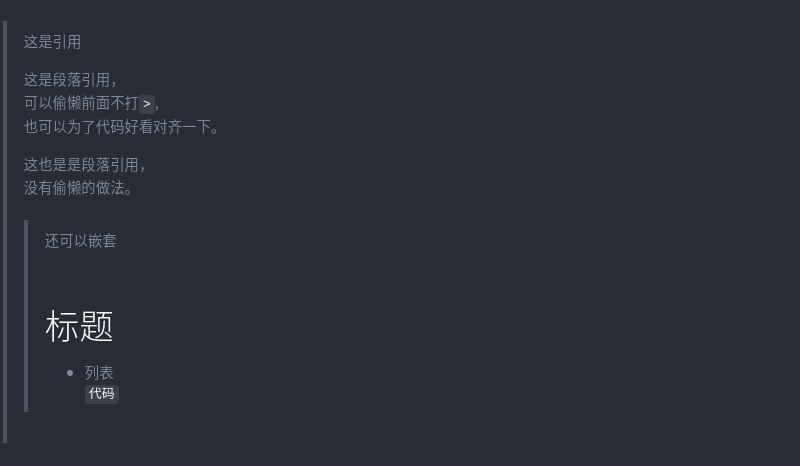
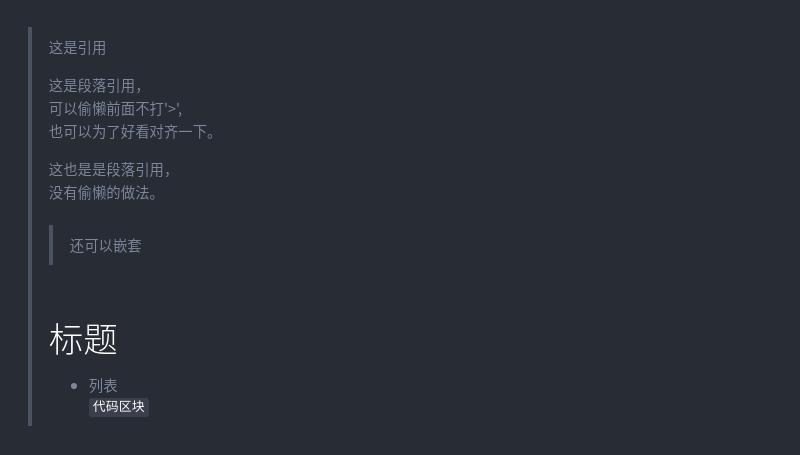
Site updated: 2019-03-01 11:41:00

Changed region(s): [[0.0, 0.0615, 0.2812, 0.9538]]

diff --git a/Markdown语法笔记/index.html b/Markdown语法笔记/index.html
@@ -107,14 +107,17 @@
 <meta property="og:image" content="https://yandiwei.github.io/uploads/headers_setext.png">
 <meta property="og:image" content="https://yandiwei.github.io/uploads/headers_atx.png">
 <meta property="og:image" content="https://yandiwei.github.io/uploads/emphasis.png">
+<meta property="og:image" content="https://yandiwei.github.io/uploads/lines.png">
 <meta property="og:image" content="https://yandiwei.github.io/uploads/lists_unordered.png">
 <meta property="og:image" content="https://yandiwei.github.io/uploads/lists_ordered.png">
+<meta property="og:image" content="https://yandiwei.github.io/uploads/autolinks.png">
 <meta property="og:image" content="https://github.githubassets.com/favicon.ico">
-<meta property="og:image" content="https://yandiwei.github.io/uploads/links.png">
+<meta property="og:image" content="https://yandiwei.github.io/uploads/hyperlink.png">
 <meta property="og:image" content="https://yandiwei.github.io/uploads/code.png">
 <meta property="og:image" content="https://yandiwei.github.io/uploads/blockquotes.png">
-<meta property="og:image" content="https://yandiwei.github.io/uploads/lines.png">
-<meta property="og:updated_time" content="2019-03-01T01:56:48.296Z">
+<meta property="og:image" content="https://yandiwei.github.io/uploads/back_slash.png">
+<meta property="og:image" content="https://yandiwei.github.io/uploads/syntax_highlighting.png">
+<meta property="og:updated_time" content="2019-03-01T03:40:12.475Z">
 <meta name="twitter:card" content="summary">
 <meta name="twitter:title" content="Markdown语法笔记">
 <meta name="twitter:description" content="Markdown简介Markdown目标实现「易读易写」 Markdown与HTML的关系 Markdown 是一种书写的格式，HTML 是一种发布的格式。 Markdown只对应HTML标记的一小部分，HTML不在 Markdown 涵盖范围之内的标签，都可以直接在文档里面用 HTML 撰写。 HTML 文件中， &amp;lt;  和  &amp;amp;  需要特殊处理成&amp;amp;lt和&amp;amp;amp，M">
@@ -411,7 +414,7 @@
                 
                   <span class="post-meta-item-text">更新于</span>
                 
-                <time title="修改时间：2019-03-01 09:56:48" itemprop="dateModified" datetime="2019-03-01T09:56:48+08:00">2019-03-01</time>
+                <time title="修改时间：2019-03-01 11:40:12" itemprop="dateModified" datetime="2019-03-01T11:40:12+08:00">2019-03-01</time>
               
             
           </span>
@@ -469,35 +472,52 @@
 <li>Markdown只对应HTML标记的一小部分，HTML不在 Markdown 涵盖范围之内的标签，都可以直接在文档里面用 HTML 撰写。</li>
 <li>HTML 文件中，<strong> &lt; </strong> 和 <strong> &amp; </strong> 需要特殊处理成<code>&amp;lt</code>和<code>&amp;amp</code>，Markdown自动转换。</li>
 </ul>
-<h1 id="基本Markdown语法"><a href="#基本Markdown语法" class="headerlink" title="基本Markdown语法"></a>基本Markdown语法</h1><h2 id="标题"><a href="#标题" class="headerlink" title="标题"></a>标题</h2><h3 id="类Setext形式"><a href="#类Setext形式" class="headerlink" title="类Setext形式"></a>类Setext形式</h3><figure class="highlight markdown"><table><tr><td class="gutter"><pre><span class="line">1</span><br><span class="line">2</span><br><span class="line">3</span><br><span class="line">4</span><br></pre></td><td class="code"><pre><span class="line">标题1</span><br><span class="line">==</span><br><span class="line">标题2</span><br><span class="line">--</span><br></pre></td></tr></table></figure>
+<h1 id="基本Markdown语法"><a href="#基本Markdown语法" class="headerlink" title="基本Markdown语法"></a>基本Markdown语法</h1><h2 id="标题"><a href="#标题" class="headerlink" title="标题"></a>标题</h2><h3 id="Setext形式"><a href="#Setext形式" class="headerlink" title="Setext形式"></a>Setext形式</h3><figure class="highlight markdown"><table><tr><td class="gutter"><pre><span class="line">1</span><br><span class="line">2</span><br><span class="line">3</span><br><span class="line">4</span><br></pre></td><td class="code"><pre><span class="line">标题1</span><br><span class="line">==</span><br><span class="line">标题2</span><br><span class="line">--</span><br></pre></td></tr></table></figure>
 <p><img src="/uploads/headers_setext.png" alt="类Setext形式"></p>
-<h3 id="类atx形式"><a href="#类atx形式" class="headerlink" title="类atx形式"></a>类atx形式</h3><figure class="highlight markdown"><table><tr><td class="gutter"><pre><span class="line">1</span><br><span class="line">2</span><br><span class="line">3</span><br><span class="line">4</span><br><span class="line">5</span><br><span class="line">6</span><br></pre></td><td class="code"><pre><span class="line"><span class="section"># 标题1</span></span><br><span class="line"><span class="section">## 标题2</span></span><br><span class="line"><span class="section">### 标题3</span></span><br><span class="line"><span class="section">#### 标题4</span></span><br><span class="line"><span class="section">##### 标题5</span></span><br><span class="line"><span class="section">###### 标题6</span></span><br></pre></td></tr></table></figure>
+<h3 id="atx形式"><a href="#atx形式" class="headerlink" title="atx形式"></a>atx形式</h3><figure class="highlight markdown"><table><tr><td class="gutter"><pre><span class="line">1</span><br><span class="line">2</span><br><span class="line">3</span><br><span class="line">4</span><br><span class="line">5</span><br><span class="line">6</span><br></pre></td><td class="code"><pre><span class="line"><span class="section"># 标题1</span></span><br><span class="line"><span class="section">## 标题2</span></span><br><span class="line"><span class="section">### 标题3</span></span><br><span class="line"><span class="section">#### 标题4</span></span><br><span class="line"><span class="section">##### 标题5</span></span><br><span class="line"><span class="section">###### 标题6</span></span><br></pre></td></tr></table></figure>
 <p><img src="/uploads/headers_atx.png" alt="类atx形式"></p>
-<h2 id="强调"><a href="#强调" class="headerlink" title="强调"></a>强调</h2><figure class="highlight markdown"><table><tr><td class="gutter"><pre><span class="line">1</span><br><span class="line">2</span><br><span class="line">3</span><br><span class="line">4</span><br></pre></td><td class="code"><pre><span class="line"><span class="bullet">* </span>斜体 *</span><br><span class="line"><span class="emphasis">_ 斜体 _</span></span><br><span class="line"><span class="strong">** 加粗 **</span></span><br><span class="line"><span class="strong">__ 加粗 __</span></span><br></pre></td></tr></table></figure>
+<h2 id="强调"><a href="#强调" class="headerlink" title="强调"></a>强调</h2><figure class="highlight markdown"><table><tr><td class="gutter"><pre><span class="line">1</span><br><span class="line">2</span><br><span class="line">3</span><br><span class="line">4</span><br></pre></td><td class="code"><pre><span class="line"><span class="emphasis">*斜体*</span></span><br><span class="line"><span class="emphasis">_斜体_</span></span><br><span class="line"><span class="strong">**加粗**</span></span><br><span class="line"><span class="strong">__加粗__</span></span><br></pre></td></tr></table></figure>
 <p><img src="/uploads/emphasis.png" alt="强调"></p>
+<h2 id="分隔线"><a href="#分隔线" class="headerlink" title="分隔线"></a>分隔线</h2><figure class="highlight markdown"><table><tr><td class="gutter"><pre><span class="line">1</span><br></pre></td><td class="code"><pre><span class="line">---</span><br></pre></td></tr></table></figure>
+<p><img src="/uploads/lines.png" alt="分隔线"></p>
 <h2 id="列表"><a href="#列表" class="headerlink" title="列表"></a>列表</h2><h3 id="无序列表"><a href="#无序列表" class="headerlink" title="无序列表"></a>无序列表</h3><figure class="highlight markdown"><table><tr><td class="gutter"><pre><span class="line">1</span><br><span class="line">2</span><br><span class="line">3</span><br><span class="line">4</span><br><span class="line">5</span><br><span class="line">6</span><br></pre></td><td class="code"><pre><span class="line"><span class="bullet">* </span>无序列表</span><br><span class="line"><span class="bullet">* </span>无序列表</span><br><span class="line">  * 无序列表</span><br><span class="line">  * 无序列表</span><br><span class="line"><span class="bullet">+ </span>无序列表</span><br><span class="line"><span class="bullet">- </span>无序列表</span><br></pre></td></tr></table></figure>
 <p><img src="/uploads/lists_unordered.png" alt="无序列表"></p>
 <h3 id="有序列表"><a href="#有序列表" class="headerlink" title="有序列表"></a>有序列表</h3><figure class="highlight markdown"><table><tr><td class="gutter"><pre><span class="line">1</span><br><span class="line">2</span><br><span class="line">3</span><br><span class="line">4</span><br></pre></td><td class="code"><pre><span class="line"><span class="bullet">1. </span>有序列表</span><br><span class="line"><span class="bullet">1. </span>有序列表</span><br><span class="line">  1. 有序列表</span><br><span class="line">  3. 有序列表（实际显示与前面的序号无关）</span><br></pre></td></tr></table></figure>
 <p><img src="/uploads/lists_ordered.png" alt="有序列表"></p>
-<h2 id="图片"><a href="#图片" class="headerlink" title="图片"></a>图片</h2><figure class="highlight markdown"><table><tr><td class="gutter"><pre><span class="line">1</span><br><span class="line">2</span><br><span class="line">3</span><br><span class="line">4</span><br></pre></td><td class="code"><pre><span class="line">格式：</span><br><span class="line">![<span class="string">图片替代文字</span>](<span class="link">图片地址</span>)</span><br><span class="line">例如：</span><br><span class="line">![<span class="string">github图标</span>](<span class="link">https://github.githubassets.com/favicon.ico</span>)</span><br></pre></td></tr></table></figure>
-<p><img src="https://github.githubassets.com/favicon.ico" alt="github图标"></p>
-<h2 id="链接"><a href="#链接" class="headerlink" title="链接"></a>链接</h2><figure class="highlight markdown"><table><tr><td class="gutter"><pre><span class="line">1</span><br><span class="line">2</span><br></pre></td><td class="code"><pre><span class="line">&lt;http://github.com&gt;</span><br><span class="line">&lt;yandiwei@hotmail.com&gt;</span><br></pre></td></tr></table></figure>
-<p><img src="/uploads/links.png" alt="链接"></p>
+<h2 id="链接"><a href="#链接" class="headerlink" title="链接"></a>链接</h2><h3 id="自动链接"><a href="#自动链接" class="headerlink" title="自动链接"></a>自动链接</h3><figure class="highlight markdown"><table><tr><td class="gutter"><pre><span class="line">1</span><br><span class="line">2</span><br></pre></td><td class="code"><pre><span class="line">&lt;http://github.com&gt;</span><br><span class="line">&lt;yandiwei@hotmail.com&gt;</span><br></pre></td></tr></table></figure>
+<p><img src="/uploads/autolinks.png" alt="自动链接"></p>
+<h3 id="文字超链接"><a href="#文字超链接" class="headerlink" title="文字超链接"></a>文字超链接</h3><figure class="highlight markdown"><table><tr><td class="gutter"><pre><span class="line">1</span><br><span class="line">2</span><br><span class="line">3</span><br><span class="line">4</span><br></pre></td><td class="code"><pre><span class="line">格式：</span><br><span class="line">[<span class="string">需要链接的文字</span>](<span class="link">链接地址 "链接描述"</span>)</span><br><span class="line">例如：</span><br><span class="line">[<span class="string">github</span>](<span class="link">http://github.com "github官网"</span>)</span><br></pre></td></tr></table></figure>
+<p><a href="http://github.com" title="github官网" target="_blank" rel="noopener">github</a></p>
+<h3 id="图片超链接"><a href="#图片超链接" class="headerlink" title="图片超链接"></a>图片超链接</h3><p>图片跟链接类似，前面加了一个‘!’<br><figure class="highlight markdown"><table><tr><td class="gutter"><pre><span class="line">1</span><br><span class="line">2</span><br><span class="line">3</span><br><span class="line">4</span><br></pre></td><td class="code"><pre><span class="line">格式：</span><br><span class="line">![<span class="string">找不到图像文件时显示的文本</span>](<span class="link">图片地址 "图片描述"</span>)</span><br><span class="line">例如：</span><br><span class="line">![<span class="string">github图标</span>](<span class="link">https://github.githubassets.com/favicon.ico "logo"</span>)</span><br></pre></td></tr></table></figure></p>
+<p><img src="https://github.githubassets.com/favicon.ico" alt="github图标" title="logo"></p>
+<h3 id="索引超链接"><a href="#索引超链接" class="headerlink" title="索引超链接"></a>索引超链接</h3><p>对文字或者图片都适用，注意格式，以文字超链接为例<br><figure class="highlight markdown"><table><tr><td class="gutter"><pre><span class="line">1</span><br><span class="line">2</span><br><span class="line">3</span><br></pre></td><td class="code"><pre><span class="line">[<span class="string">github</span>][<span class="symbol">1x</span>]</span><br><span class="line">这里可以写一些其他的东西</span><br><span class="line">[<span class="symbol">1x</span>]:<span class="link">http://github.com</span></span><br></pre></td></tr></table></figure></p>
+<p><img src="/uploads/hyperlink.png" alt="索引超链接"></p>
 <h2 id="代码"><a href="#代码" class="headerlink" title="代码"></a>代码</h2><figure class="highlight markdown"><table><tr><td class="gutter"><pre><span class="line">1</span><br><span class="line">2</span><br><span class="line">3</span><br><span class="line">4</span><br></pre></td><td class="code"><pre><span class="line">一小段行内<span class="code">`代码`</span></span><br><span class="line"></span><br><span class="line"><span class="code">    代码区块缩进 4 个空格或是 1 个制表符</span></span><br><span class="line"><span class="code">    print("Hello, world!")</span></span><br></pre></td></tr></table></figure>
 <p><img src="/uploads/code.png" alt="代码"></p>
-<h2 id="区块引用"><a href="#区块引用" class="headerlink" title="区块引用"></a>区块引用</h2><figure class="highlight markdown"><table><tr><td class="gutter"><pre><span class="line">1</span><br><span class="line">2</span><br><span class="line">3</span><br><span class="line">4</span><br><span class="line">5</span><br><span class="line">6</span><br><span class="line">7</span><br><span class="line">8</span><br><span class="line">9</span><br><span class="line">10</span><br><span class="line">11</span><br><span class="line">12</span><br></pre></td><td class="code"><pre><span class="line"><span class="quote">&gt; 这是引用</span></span><br><span class="line">&gt;</span><br><span class="line"><span class="quote">&gt; 这是段落引用，</span></span><br><span class="line">可以偷懒前面不打'&gt;',</span><br><span class="line">  也可以为了好看对齐一下。</span><br><span class="line">&gt;</span><br><span class="line"><span class="quote">&gt; 这也是是段落引用，</span></span><br><span class="line"><span class="quote">&gt; 没有偷懒的做法。</span></span><br><span class="line"><span class="quote">&gt; &gt; 还可以嵌套</span></span><br><span class="line"><span class="quote">&gt; # 标题</span></span><br><span class="line"><span class="quote">&gt; * 列表</span></span><br><span class="line"><span class="quote">&gt; `代码区块`</span></span><br></pre></td></tr></table></figure>
+<h2 id="区块引用"><a href="#区块引用" class="headerlink" title="区块引用"></a>区块引用</h2><figure class="highlight markdown"><table><tr><td class="gutter"><pre><span class="line">1</span><br><span class="line">2</span><br><span class="line">3</span><br><span class="line">4</span><br><span class="line">5</span><br><span class="line">6</span><br><span class="line">7</span><br><span class="line">8</span><br><span class="line">9</span><br><span class="line">10</span><br><span class="line">11</span><br><span class="line">12</span><br><span class="line">13</span><br><span class="line">14</span><br></pre></td><td class="code"><pre><span class="line"><span class="quote">&gt; 这是引用</span></span><br><span class="line">&gt;</span><br><span class="line"><span class="quote">&gt; 这是段落引用，</span></span><br><span class="line">可以偷懒前面不打'&gt;',</span><br><span class="line">  也可以为了好看对齐一下。</span><br><span class="line">&gt;</span><br><span class="line"><span class="quote">&gt; 这也是是段落引用，</span></span><br><span class="line"><span class="quote">&gt; 没有偷懒的做法。</span></span><br><span class="line">&gt;</span><br><span class="line"><span class="quote">&gt; &gt; 还可以嵌套</span></span><br><span class="line">&gt;</span><br><span class="line"><span class="quote">&gt; # 标题</span></span><br><span class="line"><span class="quote">&gt; * 列表</span></span><br><span class="line"><span class="quote">&gt; `代码区块`</span></span><br></pre></td></tr></table></figure>
 <p><img src="/uploads/blockquotes.png" alt="引用"></p>
-<h2 id="分隔线"><a href="#分隔线" class="headerlink" title="分隔线"></a>分隔线</h2><figure class="highlight markdown"><table><tr><td class="gutter"><pre><span class="line">1</span><br></pre></td><td class="code"><pre><span class="line">---</span><br></pre></td></tr></table></figure>
-<p><img src="/uploads/lines.png" alt="分隔线"></p>
+<h2 id="特殊字符"><a href="#特殊字符" class="headerlink" title="特殊字符"></a>特殊字符</h2><p>用反斜杠来插入一些在语法中有其它意义的符号，例如<code>\*</code>来插入‘*’，支持符号如下：<br><img src="/uploads/back_slash.png" alt="反斜杠"><br><!--
+**\\&emsp;&emsp;  反斜线**
+**\`&emsp;&emsp;  反引号**
+**\*&emsp;&emsp;  星号**
+**\{}&emsp;&emsp; 花括号**
+**\[]&emsp;&emsp; 方括号**
+**\#&emsp;&emsp;  井字号**
+**\()&emsp;&emsp; 括弧**
+**\+&emsp;&emsp;  加号**
+**\.&emsp;&emsp;  英文句点**
+**\-&emsp;&emsp;  减号**
+**\!&emsp;&emsp;  惊叹号**
+--></p>
 <h1 id="GFM（Github-Flavored-Markdown）"><a href="#GFM（Github-Flavored-Markdown）" class="headerlink" title="GFM（Github Flavored Markdown）"></a>GFM（Github Flavored Markdown）</h1><p>github改良过后的markdown版本，加强了一些功能，我所掌握的一些语法如下：</p>
-<h2 id="语法高亮"><a href="#语法高亮" class="headerlink" title="语法高亮"></a>语法高亮</h2><figure class="highlight markdown"><table><tr><td class="gutter"><pre><span class="line">1</span><br><span class="line">2</span><br></pre></td><td class="code"><pre><span class="line"><span class="code">```python</span></span><br><span class="line"><span class="code">print("hello, world!")</span></span><br></pre></td></tr></table></figure>
-<p>print(“hello, world!”)<br><figure class="highlight plain"><table><tr><td class="gutter"><pre><span class="line">1</span><br><span class="line">2</span><br><span class="line">3</span><br><span class="line">4</span><br><span class="line">5</span><br><span class="line">6</span><br><span class="line">7</span><br><span class="line">8</span><br><span class="line">9</span><br></pre></td><td class="code"><pre><span class="line"></span><br><span class="line">** 注意下图不是输出效果，而是界面的输入效果 **</span><br><span class="line">![分隔线](/uploads/syntax_highlighting.png)</span><br><span class="line"></span><br><span class="line">## 任务列表</span><br><span class="line"></span><br><span class="line">```markdown</span><br><span class="line">- [x] 完成项目</span><br><span class="line">- [ ] 未完成项目</span><br></pre></td></tr></table></figure></p>
+<h2 id="语法高亮"><a href="#语法高亮" class="headerlink" title="语法高亮"></a>语法高亮</h2><figure class="highlight markdown"><table><tr><td class="gutter"><pre><span class="line">1</span><br><span class="line">2</span><br><span class="line">3</span><br><span class="line">4</span><br></pre></td><td class="code"><pre><span class="line"><span class="code">```python</span></span><br><span class="line"><span class="code">print("hello, world!")</span></span><br><span class="line"><span class="code">``` </span></span><br><span class="line"><span class="code">print("hello, world!")</span></span><br></pre></td></tr></table></figure>
+<p><strong> 注意下图不是输出效果，而是界面的输入效果 </strong><br><img src="/uploads/syntax_highlighting.png" alt="分隔线"></p>
+<h2 id="任务列表"><a href="#任务列表" class="headerlink" title="任务列表"></a>任务列表</h2><figure class="highlight markdown"><table><tr><td class="gutter"><pre><span class="line">1</span><br><span class="line">2</span><br></pre></td><td class="code"><pre><span class="line"><span class="bullet">- </span>[x] 完成项目</span><br><span class="line"><span class="bullet">- </span>[ ] 未完成项目</span><br></pre></td></tr></table></figure>
 <ul>
 <li style="list-style: none"><input type="checkbox" checked> 完成项目</li>
 <li style="list-style: none"><input type="checkbox"> 未完成项目</li>
 </ul>
-<h2 id="表格"><a href="#表格" class="headerlink" title="表格"></a>表格</h2><p>第二行代码控制对齐方式</p>
-<figure class="highlight markdown"><table><tr><td class="gutter"><pre><span class="line">1</span><br><span class="line">2</span><br><span class="line">3</span><br></pre></td><td class="code"><pre><span class="line">表头一 | 表头二 | 表头三</span><br><span class="line">:- | :-: | -:</span><br><span class="line">居左 | 居中 | 居右</span><br></pre></td></tr></table></figure>
+<h2 id="表格"><a href="#表格" class="headerlink" title="表格"></a>表格</h2><p>第二行代码控制对齐方式<br><figure class="highlight markdown"><table><tr><td class="gutter"><pre><span class="line">1</span><br><span class="line">2</span><br><span class="line">3</span><br></pre></td><td class="code"><pre><span class="line">表头一|表头二|表头三</span><br><span class="line">:-|:-:|-:</span><br><span class="line">居左|居中|居右</span><br></pre></td></tr></table></figure></p>
 <table>
 <thead>
 <tr>
@@ -514,13 +534,12 @@
 </tr>
 </tbody>
 </table>
-<h2 id="自动转换链接"><a href="#自动转换链接" class="headerlink" title="自动转换链接"></a>自动转换链接</h2><p>不用打尖括号了</p>
-<figure class="highlight markdown"><table><tr><td class="gutter"><pre><span class="line">1</span><br></pre></td><td class="code"><pre><span class="line">http://www.github.com/</span><br></pre></td></tr></table></figure>
+<h2 id="自动转换链接"><a href="#自动转换链接" class="headerlink" title="自动转换链接"></a>自动转换链接</h2><p>不用打尖括号了<br><figure class="highlight markdown"><table><tr><td class="gutter"><pre><span class="line">1</span><br></pre></td><td class="code"><pre><span class="line">http://www.github.com/</span><br></pre></td></tr></table></figure></p>
 <p><a href="http://www.github.com/" target="_blank" rel="noopener">http://www.github.com/</a></p>
 <h2 id="删除线"><a href="#删除线" class="headerlink" title="删除线"></a>删除线</h2><figure class="highlight markdown"><table><tr><td class="gutter"><pre><span class="line">1</span><br></pre></td><td class="code"><pre><span class="line">~~删除线~~</span><br></pre></td></tr></table></figure>
 <p><del>删除线</del></p>
 <h1 id="学习途径"><a href="#学习途径" class="headerlink" title="学习途径"></a>学习途径</h1><div class="note default">
-            <p><a href="http://markdown.cn/" target="_blank" rel="noopener">Markdown教程</a><br><a href="https://guides.github.com/features/mastering-markdown/" target="_blank" rel="noopener">GFK网站</a></p>
+            <p><a href="https://www.w3cschool.cn/markdownyfsm/" target="_blank" rel="noopener">Markdown语法说明</a><br><a href="https://guides.github.com/features/mastering-markdown/" target="_blank" rel="noopener">GFK网站</a></p>
           </div>
 
       
@@ -786,7 +805,7 @@
             
 
             
-              <div class="post-toc-content"><ol class="nav"><li class="nav-item nav-level-1"><a class="nav-link" href="#Markdown简介"><span class="nav-number">1.</span> <span class="nav-text">Markdown简介</span></a><ol class="nav-child"><li class="nav-item nav-level-2"><a class="nav-link" href="#Markdown目标"><span class="nav-number">1.1.</span> <span class="nav-text">Markdown目标</span></a></li><li class="nav-item nav-level-2"><a class="nav-link" href="#Markdown与HTML的关系"><span class="nav-number">1.2.</span> <span class="nav-text">Markdown与HTML的关系</span></a></li></ol></li><li class="nav-item nav-level-1"><a class="nav-link" href="#基本Markdown语法"><span class="nav-number">2.</span> <span class="nav-text">基本Markdown语法</span></a><ol class="nav-child"><li class="nav-item nav-level-2"><a class="nav-link" href="#标题"><span class="nav-number">2.1.</span> <span class="nav-text">标题</span></a><ol class="nav-child"><li class="nav-item nav-level-3"><a class="nav-link" href="#类Setext形式"><span class="nav-number">2.1.1.</span> <span class="nav-text">类Setext形式</span></a></li><li class="nav-item nav-level-3"><a class="nav-link" href="#类atx形式"><span class="nav-number">2.1.2.</span> <span class="nav-text">类atx形式</span></a></li></ol></li><li class="nav-item nav-level-2"><a class="nav-link" href="#强调"><span class="nav-number">2.2.</span> <span class="nav-text">强调</span></a></li><li class="nav-item nav-level-2"><a class="nav-link" href="#列表"><span class="nav-number">2.3.</span> <span class="nav-text">列表</span></a><ol class="nav-child"><li class="nav-item nav-level-3"><a class="nav-link" href="#无序列表"><span class="nav-number">2.3.1.</span> <span class="nav-text">无序列表</span></a></li><li class="nav-item nav-level-3"><a class="nav-link" href="#有序列表"><span class="nav-number">2.3.2.</span> <span class="nav-text">有序列表</span></a></li></ol></li><li class="nav-item nav-level-2"><a class="nav-link" href="#图片"><span class="nav-number">2.4.</span> <span class="nav-text">图片</span></a></li><li class="nav-item nav-level-2"><a class="nav-link" href="#链接"><span class="nav-number">2.5.</span> <span class="nav-text">链接</span></a></li><li class="nav-item nav-level-2"><a class="nav-link" href="#代码"><span class="nav-number">2.6.</span> <span class="nav-text">代码</span></a></li><li class="nav-item nav-level-2"><a class="nav-link" href="#区块引用"><span class="nav-number">2.7.</span> <span class="nav-text">区块引用</span></a></li><li class="nav-item nav-level-2"><a class="nav-link" href="#分隔线"><span class="nav-number">2.8.</span> <span class="nav-text">分隔线</span></a></li></ol></li><li class="nav-item nav-level-1"><a class="nav-link" href="#GFM（Github-Flavored-Markdown）"><span class="nav-number">3.</span> <span class="nav-text">GFM（Github Flavored Markdown）</span></a><ol class="nav-child"><li class="nav-item nav-level-2"><a class="nav-link" href="#语法高亮"><span class="nav-number">3.1.</span> <span class="nav-text">语法高亮</span></a></li><li class="nav-item nav-level-2"><a class="nav-link" href="#表格"><span class="nav-number">3.2.</span> <span class="nav-text">表格</span></a></li><li class="nav-item nav-level-2"><a class="nav-link" href="#自动转换链接"><span class="nav-number">3.3.</span> <span class="nav-text">自动转换链接</span></a></li><li class="nav-item nav-level-2"><a class="nav-link" href="#删除线"><span class="nav-number">3.4.</span> <span class="nav-text">删除线</span></a></li></ol></li><li class="nav-item nav-level-1"><a class="nav-link" href="#学习途径"><span class="nav-number">4.</span> <span class="nav-text">学习途径</span></a></li></ol></div>
+              <div class="post-toc-content"><ol class="nav"><li class="nav-item nav-level-1"><a class="nav-link" href="#Markdown简介"><span class="nav-number">1.</span> <span class="nav-text">Markdown简介</span></a><ol class="nav-child"><li class="nav-item nav-level-2"><a class="nav-link" href="#Markdown目标"><span class="nav-number">1.1.</span> <span class="nav-text">Markdown目标</span></a></li><li class="nav-item nav-level-2"><a class="nav-link" href="#Markdown与HTML的关系"><span class="nav-number">1.2.</span> <span class="nav-text">Markdown与HTML的关系</span></a></li></ol></li><li class="nav-item nav-level-1"><a class="nav-link" href="#基本Markdown语法"><span class="nav-number">2.</span> <span class="nav-text">基本Markdown语法</span></a><ol class="nav-child"><li class="nav-item nav-level-2"><a class="nav-link" href="#标题"><span class="nav-number">2.1.</span> <span class="nav-text">标题</span></a><ol class="nav-child"><li class="nav-item nav-level-3"><a class="nav-link" href="#Setext形式"><span class="nav-number">2.1.1.</span> <span class="nav-text">Setext形式</span></a></li><li class="nav-item nav-level-3"><a class="nav-link" href="#atx形式"><span class="nav-number">2.1.2.</span> <span class="nav-text">atx形式</span></a></li></ol></li><li class="nav-item nav-level-2"><a class="nav-link" href="#强调"><span class="nav-number">2.2.</span> <span class="nav-text">强调</span></a></li><li class="nav-item nav-level-2"><a class="nav-link" href="#分隔线"><span class="nav-number">2.3.</span> <span class="nav-text">分隔线</span></a></li><li class="nav-item nav-level-2"><a class="nav-link" href="#列表"><span class="nav-number">2.4.</span> <span class="nav-text">列表</span></a><ol class="nav-child"><li class="nav-item nav-level-3"><a class="nav-link" href="#无序列表"><span class="nav-number">2.4.1.</span> <span class="nav-text">无序列表</span></a></li><li class="nav-item nav-level-3"><a class="nav-link" href="#有序列表"><span class="nav-number">2.4.2.</span> <span class="nav-text">有序列表</span></a></li></ol></li><li class="nav-item nav-level-2"><a class="nav-link" href="#链接"><span class="nav-number">2.5.</span> <span class="nav-text">链接</span></a><ol class="nav-child"><li class="nav-item nav-level-3"><a class="nav-link" href="#自动链接"><span class="nav-number">2.5.1.</span> <span class="nav-text">自动链接</span></a></li><li class="nav-item nav-level-3"><a class="nav-link" href="#文字超链接"><span class="nav-number">2.5.2.</span> <span class="nav-text">文字超链接</span></a></li><li class="nav-item nav-level-3"><a class="nav-link" href="#图片超链接"><span class="nav-number">2.5.3.</span> <span class="nav-text">图片超链接</span></a></li><li class="nav-item nav-level-3"><a class="nav-link" href="#索引超链接"><span class="nav-number">2.5.4.</span> <span class="nav-text">索引超链接</span></a></li></ol></li><li class="nav-item nav-level-2"><a class="nav-link" href="#代码"><span class="nav-number">2.6.</span> <span class="nav-text">代码</span></a></li><li class="nav-item nav-level-2"><a class="nav-link" href="#区块引用"><span class="nav-number">2.7.</span> <span class="nav-text">区块引用</span></a></li><li class="nav-item nav-level-2"><a class="nav-link" href="#特殊字符"><span class="nav-number">2.8.</span> <span class="nav-text">特殊字符</span></a></li></ol></li><li class="nav-item nav-level-1"><a class="nav-link" href="#GFM（Github-Flavored-Markdown）"><span class="nav-number">3.</span> <span class="nav-text">GFM（Github Flavored Markdown）</span></a><ol class="nav-child"><li class="nav-item nav-level-2"><a class="nav-link" href="#语法高亮"><span class="nav-number">3.1.</span> <span class="nav-text">语法高亮</span></a></li><li class="nav-item nav-level-2"><a class="nav-link" href="#任务列表"><span class="nav-number">3.2.</span> <span class="nav-text">任务列表</span></a></li><li class="nav-item nav-level-2"><a class="nav-link" href="#表格"><span class="nav-number">3.3.</span> <span class="nav-text">表格</span></a></li><li class="nav-item nav-level-2"><a class="nav-link" href="#自动转换链接"><span class="nav-number">3.4.</span> <span class="nav-text">自动转换链接</span></a></li><li class="nav-item nav-level-2"><a class="nav-link" href="#删除线"><span class="nav-number">3.5.</span> <span class="nav-text">删除线</span></a></li></ol></li><li class="nav-item nav-level-1"><a class="nav-link" href="#学习途径"><span class="nav-number">4.</span> <span class="nav-text">学习途径</span></a></li></ol></div>
             
 
           </div>

diff --git a/index.html b/index.html
@@ -401,7 +401,7 @@
                 
                   <span class="post-meta-item-text">更新于</span>
                 
-                <time title="修改时间：2019-03-01 09:56:48" itemprop="dateModified" datetime="2019-03-01T09:56:48+08:00">2019-03-01</time>
+                <time title="修改时间：2019-03-01 11:40:12" itemprop="dateModified" datetime="2019-03-01T11:40:12+08:00">2019-03-01</time>
               
             
           </span>

diff --git a/css/main.css b/css/main.css
@@ -1901,7 +1901,7 @@ pre .javascript .function {
   width: 4px;
   height: 4px;
   border-radius: 50%;
-  background: #0d6c93;
+  background: #ff60b4;
 }
 .links-of-blogroll {
   font-size: 13px;
